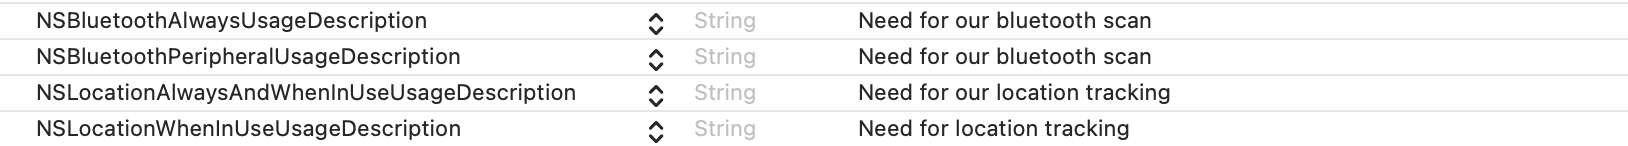
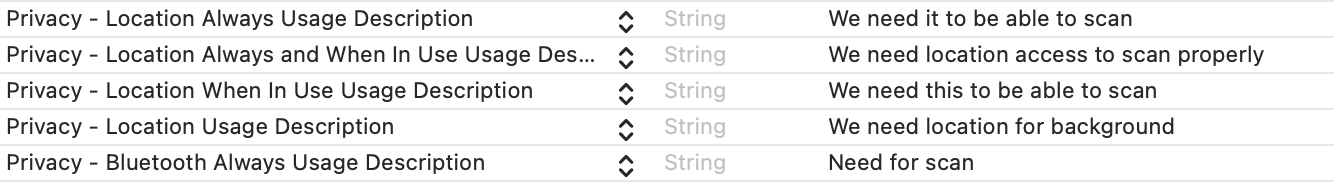
upd - updated to latest NodleSDK version 0.0.13 / updated documentation for background modes and config

diff --git a/docs/nodle-sdk/nodle-sdk-ios-integration.md b/docs/nodle-sdk/nodle-sdk-ios-integration.md
@@ -24,7 +24,7 @@ pod 'NodleSDK'
 pod 'NodleSDKWCB', :podspec => 'https://raw.githubusercontent.com/NodleCode/NodleSDK-Release/main/NodleSDKWCB.podspec'
 ```
 
-The latest version of the SDK is ```0.0.11``` We recommend to add the following dependency which should be automatically pulled but if you encounter any issues you can add them to your Podfile like this:
+The latest version of the SDK is ```0.0.13``` We recommend to add the following dependency which should be automatically pulled but if you encounter any issues you can add them to your Podfile like this:
 
 ```swift
 # Pods for NodleSDK
@@ -167,12 +167,18 @@ Before requesting permissions, you must add location usage strings to your ```In
 // NodleSDK
 NSBluetoothAlwaysUsageDescription - Need for our bluetooth scan
 NSBluetoothPeripheralUsageDescription - Need for our bluetooth scan
-NSLocationAlwaysAndWhenInUseUsageDescription - Need for our location request
+NSLocationAlwaysUsageDescription - Need for our location request from the background
+NSLocationAlwaysAndWhenInUseUsageDescription - Need for our location request from background
 NSLocationWhenInUseUsageDescription - Need for our location request
+NSLocationUsageDescription - Need to be able to perform additional changes to 
+location while in the background.
 
 // NodleSDKWCB
-NSLocationAlwaysAndWhenInUseUsageDescription - Need for our location request
+NSLocationAlwaysUsageDescription - Need for our location request from the background
+NSLocationAlwaysAndWhenInUseUsageDescription - Need for our location request from the background
 NSLocationWhenInUseUsageDescription - Need for our location request
+NSLocationUsageDescription - Need to be able to perform additional changes to 
+location while in the background.
 ```
 
 Here is a small example how it should look like when configured:
@@ -207,11 +213,13 @@ class ViewController: UIViewController, CLLocationManagerDelegate, CBCentralMana
         // check status for location permission
         switch CLLocationManager.authorizationStatus() {
         case .authorizedWhenInUse, .authorizedAlways:
+            // request always auth if you would use it in the background otherwise requestWhileInUse
+            locationManager.requestAlwaysAuthorization()
             // ask for bluetooth permissions
             centralManager = CBCentralManager(delegate: self, queue: nil)
         case .notDetermined:
-            // ask for permissions
-            locationManager.requestWhenInUseAuthorization()
+            // request always auth if you would use it in the background otherwise requestWhileInUse
+            locationManager.requestAlwaysAuthorization()
         default:
             print("Location permission denied")
             break;
@@ -278,10 +286,11 @@ class ViewController: UIViewController, CLLocationManagerDelegate {
         // check status for location permission
         switch CLLocationManager.authorizationStatus() {
         case .authorizedWhenInUse, .authorizedAlways:
-            // permissions granted
+            // request always auth if you would use it in the background otherwise requestWhileInUse
+            locationManager.requestAlwaysAuthorization()
         case .notDetermined:
-            // ask for permissions
-            locationManager.requestWhenInUseAuthorization()
+            // request always auth if you would use it in the background otherwise requestWhileInUse
+            locationManager.requestAlwaysAuthorization()
         default:
             print("Location permission denied")
             break;
@@ -354,7 +363,17 @@ You can find more info here: [Nodle SDK - iOS API and Configuration](nodle-sdk-i
 **And there you have it! You’re good to go!**
 
 ## Step 7: Run Nodle SDK in Background (Optional)
-If you would want your NodleSDK to perform background scanning, you must add the following task: ```io.nodle.sdk.ios.bgrefresh```  to your ```Info.plist``` file under the section: **Permitted background task scheduler identifiers** ```BGTaskSchedulerPermittedIdentifiers``` Here is a small example how it should look like when configured:
+With our latest update NodleSDK is able to perform background scanning. In order to work please make sure to **allowAlwaysAuthorization** for background permissions and **Background Modes**. Then the SDK will then be working in the background for you. You can chose one of the modes that you would want to adopt or you can disable it. Depending on the permissions that are allowed the SDK will be able to perform different actions in each of the modes. 
+
+### Enabling background modes - required
+The NodleSDK requires certain Background Modes to be enabled in order to perform background scanning. Here is example of the ones you need to enable:
+
+![Empty Import](/img/docs/nodle-sdk/bgmodes.png)
+
+You don't have to register and schedule background tasks for the SDK but you must enable the option in some of the modes that we require. Please head out to our configuration page here: [Nodle SDK - iOS API and Configuration](nodle-sdk-ios-api.md)
+
+### Improved background scanning with Background Tasks
+If you want to improve the background scanning because you have chosen a specific mode. You can allow Nodle to perform some background tasks for you when possible. You must add the following task: ```io.nodle.sdk.ios.bgrefresh```  to your ```Info.plist``` file under the section: **Permitted background task scheduler identifiers** ```BGTaskSchedulerPermittedIdentifiers``` Here is a small example how it should look like when configured:
 
 ![Empty Import](/img/docs/nodle-sdk/bgtask.png)
 

diff --git a/docs/nodle-sdk/nodle-sdk-ios-api.md b/docs/nodle-sdk/nodle-sdk-ios-api.md
@@ -287,6 +287,17 @@ the following are the table of all the keys available and their description:
 |   ble.scan.interval-msec   | wait time between two ble pass in milliseconds. Longer period reduce battery consumption but gives less reward |     50000     |
 | ble.scan.interval-x-factor |                                   multiplier for the ble scan interval above.                                  |       1       |
 |      dtn.use-cellular      |           if true, the cellular connexion will be used. if false, only wifi connection will be used.           |      true     |
+|      cron.ios-bg-mode      |           If specified, the SDK will run in the specific background mode that it is selected.           |      2     |
+|      cron.ios-bg-mode-distance-meters      |           If specified, the SDK will trigger background scans for Normal mode depending on the meters that are specified with this option.           |      20     |   
+
+there is another table that will allow you to configure our SDK background modes. There are 4 available modes: **NONE**, **ECO**, **NORMAL**, **AGGRESSIVE** for the NodleSDK please check them in the table below:
+
+|             Key            |                                                   Description                                                  | Default Value |
+|:--------------------------:|:--------------------------------------------------------------------------------------------------------------:|:-------------:|
+|   NONE   | The SDK will run in foreground mode only. You don't need to give allowAlways permissions. WhileInUse is enough for this mode. You may wish to only use Background Tasks for this mode.  |      0     |
+|   AGGRESSIVE   | The SDK will run in aggressive mode that require all permissions we requested to allowAlways. Then you have to enable Background Modes as well. There is no need to register Background Tasks for this mode. This mode will work even when the phone is with locked screen. This mode will keep the SDK awake without suspending it. Once terminated it won't be able to restore it. |     1     |
+| NORMAL |                                   The SDK will run in normal mode that require all permissions we requested to allowAlways since it still runs in the background. Then you have to enable Background Modes as well. This mode will be a bit less aggressive than the previous mode. It will trigger when there are location changes. You can change the distance with the config option. You may wish to combine Background Tasks for this mode. This mode will work even when the phone is with locked screen. This mode will be able to awake the SDK after it's fully suspended. Once terminated it won't be able to restore it.                                  |       2       |
+|      ECO      |           The SDK will run in eco mode that require all permissions we requested to allowAlways since it still runs in the background. Then you have to enable Background Modes as well. This mode will provide a very limited background work. It will trigger really rarely in the background. And when there are location changes. You may wish to combine Background Tasks for this mode. This mode will work even when the phone is with locked screen. This mode will be able to awake the SDK after it's fully suspended and even terminated.            |      3     |
 
 Example:
 
@@ -308,4 +319,7 @@ let path = bundle!.path(forResource: "config", ofType: "json")
 
 // or you can manually set the entries, for instance
 Nodle().config("dtn.use-cellular", false);
+
+// background mode selected - foreground only
+Nodle().config("cron.ios-bg-mode", 0);
 ```
